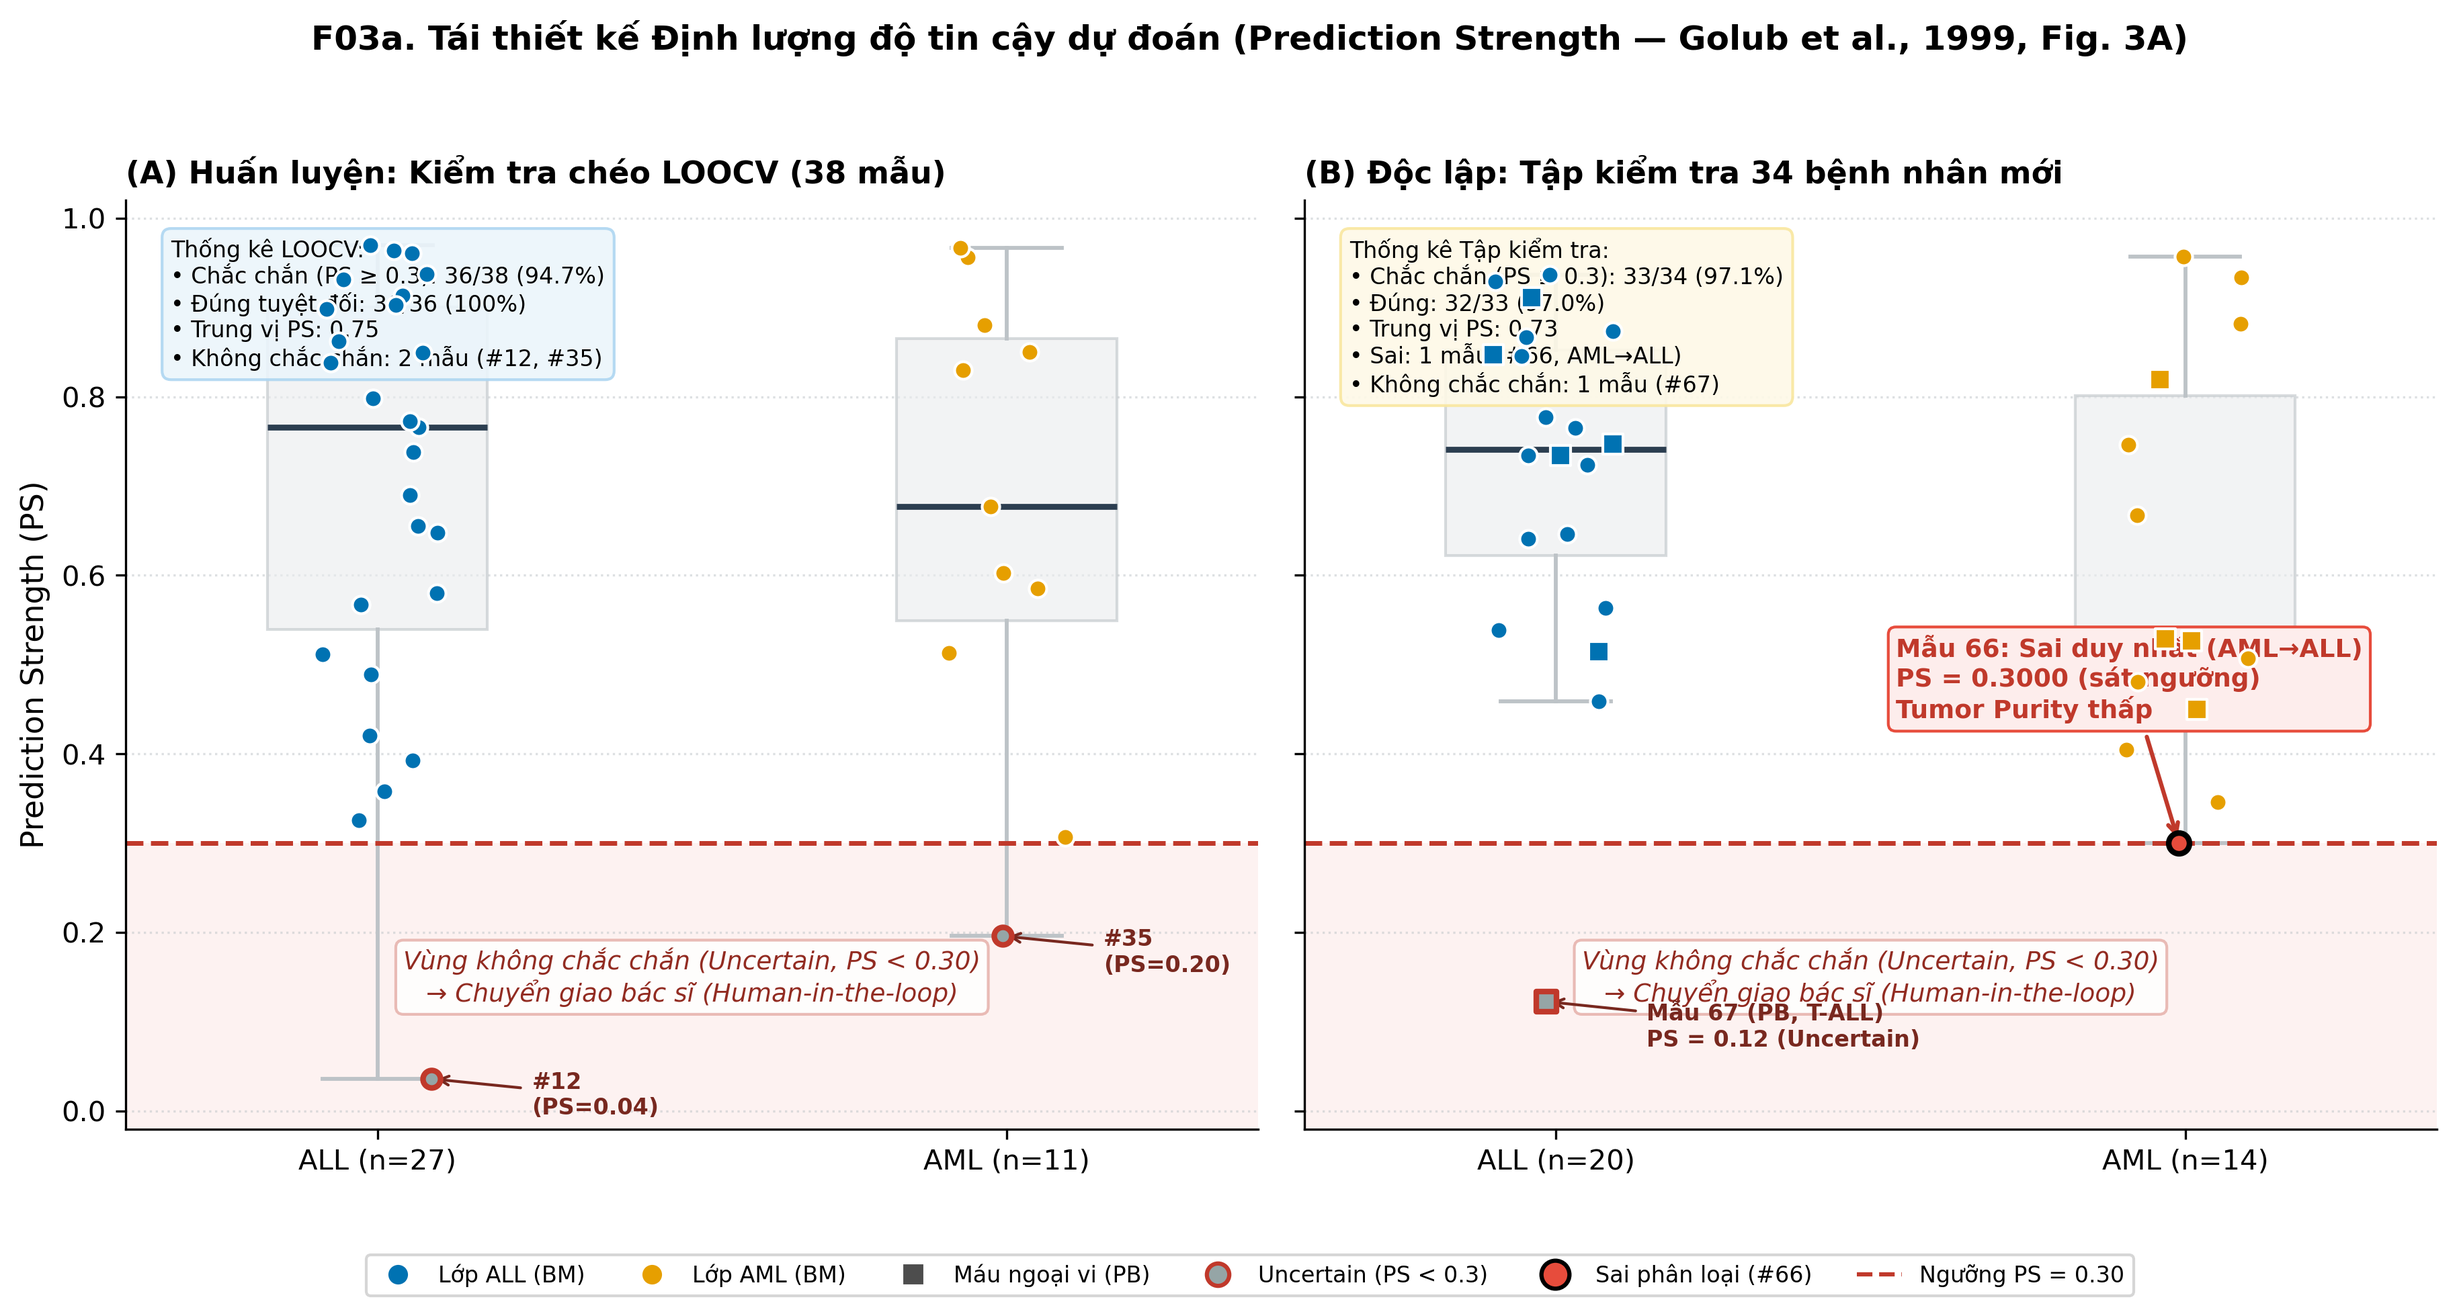
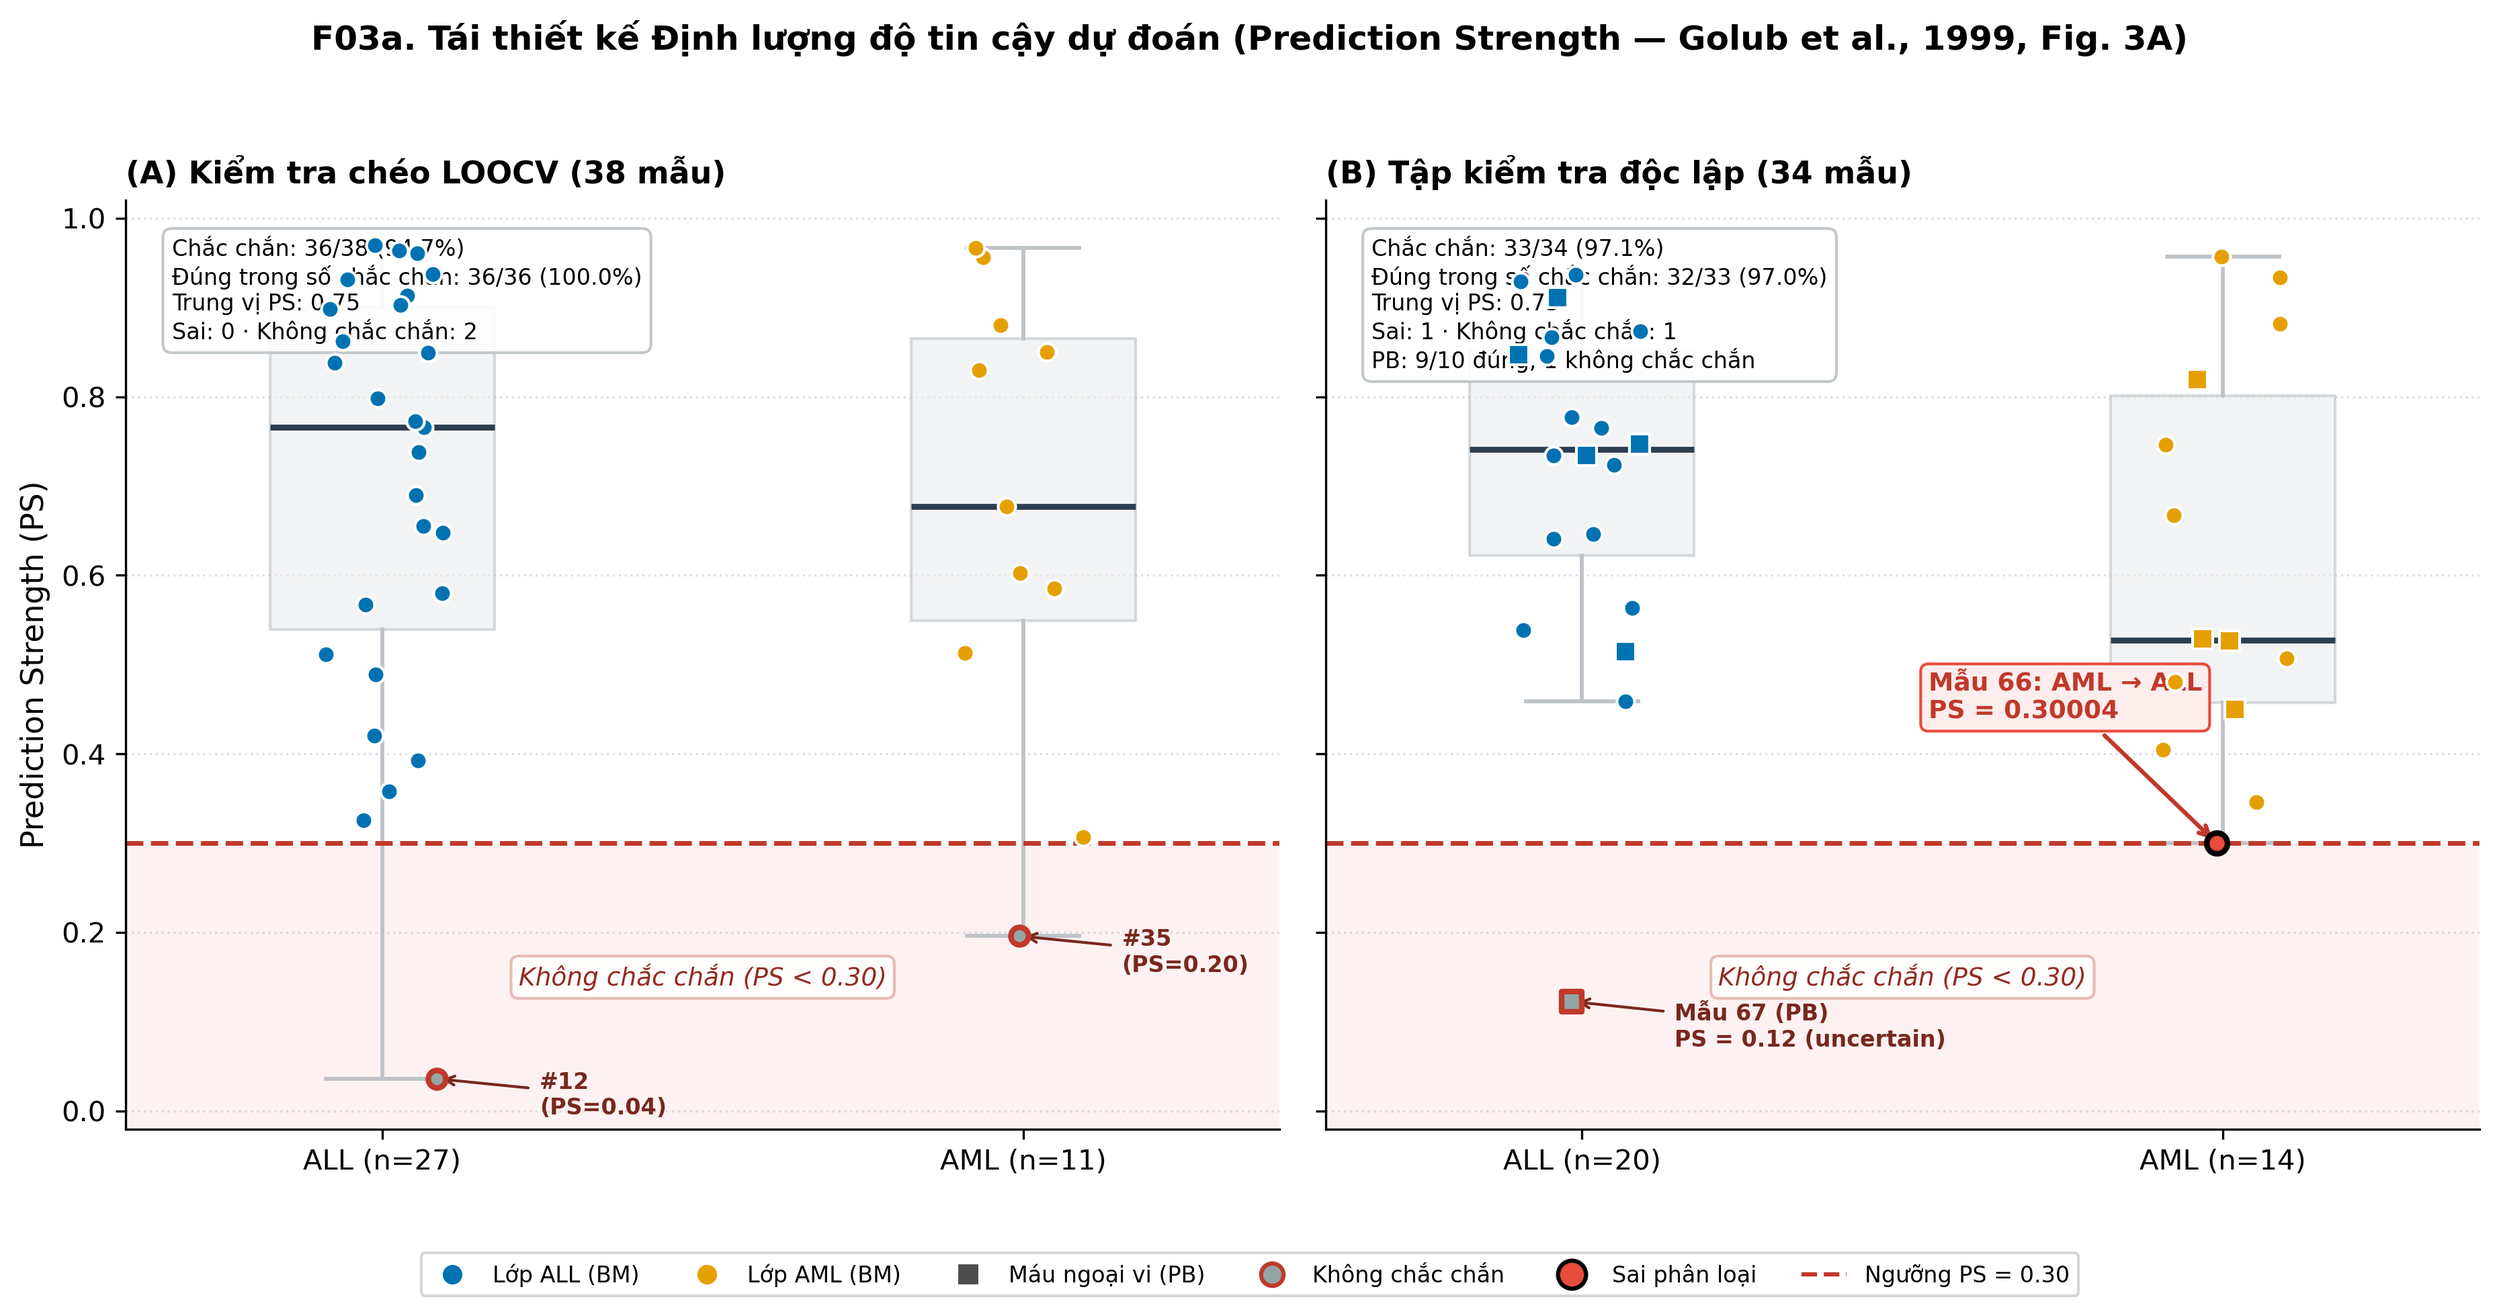
fix(tv5): tính thống kê Fig 3A từ dữ liệu dự đoán

diff --git a/src/viz_redesign.py b/src/viz_redesign.py
@@ -2,7 +2,7 @@
 
 Tái thiết kế các hình kinh điển của bài báo Golub et al. (1999) theo chuẩn trực quan hóa hiện đại:
     - Fig 2: Phân cụm không giám sát bằng Self-Organizing Maps (SOM 1x2 và 2x2), đối chiếu cấu trúc lớp và chiếu không gian biểu hiện gen.
-    - Fig 3A: (Dành riêng cho đợt tích hợp TV1) Phân bố Prediction Strength (PS) của mô hình Weighted Voting.
+    - Fig 3A: Phân bố Prediction Strength (PS) của mô hình Weighted Voting.
     - F04 (hình bổ sung của nhóm): Phân tích lỗi Logistic Regression trên tập kiểm tra độc lập theo loại mô và nguồn thu thập.
 
 Tuân thủ nghiêm ngặt Style Guide (docs/style_guide.md) và ADR-014:
@@ -21,7 +21,6 @@ Chạy trực tiếp:
 """
 from __future__ import annotations
 
-from pathlib import Path
 
 import matplotlib.pyplot as plt
 import numpy as np
@@ -33,8 +32,7 @@ from sklearn.decomposition import PCA
 
 try:
     from src.config import (
-        CLEANSED_DIR, CURATED_DIR, PALETTE, RANDOM_SEED,
-        REPORT_FIG_DIR, SLIDE_FIG_DIR
+        PROJECT_ROOT, PS_THRESHOLD, RANDOM_SEED
     )
     from src.evaluate import evaluate, _baseline_pipeline
     from src.load import load_golub
@@ -45,8 +43,7 @@ try:
     )
 except ModuleNotFoundError:
     from config import (
-        CLEANSED_DIR, CURATED_DIR, PALETTE, RANDOM_SEED,
-        REPORT_FIG_DIR, SLIDE_FIG_DIR
+        PROJECT_ROOT, PS_THRESHOLD, RANDOM_SEED
     )
     from evaluate import evaluate, _baseline_pipeline
     from load import load_golub
@@ -329,35 +326,26 @@ def plot_fig4_error_analysis(
 def plot_fig3a_prediction_strength(ps_df: pd.DataFrame | None = None, mode: str = "report") -> plt.Figure:
     """Tái thiết kế Fig 3A của Golub et al. (1999): Prediction Strength (PS) phân bổ theo lớp và tập mẫu.
 
-    Panel A: Tập huấn luyện (LOOCV - 38 mẫu), làm rõ ngưỡng PS >= 0.30 và 2 mẫu uncertain.
-    Panel B: Tập kiểm tra độc lập (34 mẫu), làm nổi bật mẫu 66 (sai biên), 5 mẫu PB và mẫu uncertain 67.
+    Hai panel trình bày PS trên LOOCV và tập kiểm tra độc lập.
     """
-    if mode not in ("report", "slide"):
-        raise ValueError(f"mode phải là 'report' hoặc 'slide', nhận được: {mode}")
-
-    if ps_df is None:
-        ps_path = Path(__file__).resolve().parent.parent / "results" / "metrics" / "golub_ps.csv"
-        if not ps_path.exists():
-            from src.config import PROJECT_ROOT
-            ps_path = PROJECT_ROOT / "results" / "metrics" / "golub_ps.csv"
-        ps_df = pd.read_csv(ps_path)
-
     rc = style_rc(mode)
+    if ps_df is None:
+        ps_df = pd.read_csv(PROJECT_ROOT / "results" / "metrics" / "golub_ps.csv")
     with plt.rc_context(rc):
         w, h = (12.5, 6.2) if mode == "report" else (14.5, 7.5)
         fig, (ax_loocv, ax_test) = plt.subplots(1, 2, figsize=(w, h), sharey=True)
 
         # Hàm vẽ cho từng panel
         def _render_panel(ax, subset_name: str, title_panel: str):
-            sub = ps_df[ps_df["set"] == subset_name].copy()
+            sub = ps_df.loc[ps_df["set"].eq(subset_name)]
 
             # Vùng bóng Uncertain (PS < 0.30)
-            ax.axhspan(-0.02, 0.30, facecolor="#FADBD8" if mode == "report" else "#F2D7D5", alpha=0.35, zorder=0)
-            ax.axhline(0.30, color="#C0392B", linestyle="--", linewidth=rc["lines.linewidth"] * 1.2,
-                       label="Ngưỡng chắc chắn (PS = 0.30)", zorder=2)
+            ax.axhspan(-0.02, PS_THRESHOLD, facecolor="#FADBD8" if mode == "report" else "#F2D7D5", alpha=0.35, zorder=0)
+            ax.axhline(PS_THRESHOLD, color="#C0392B", linestyle="--", linewidth=rc["lines.linewidth"] * 1.2,
+                       label=f"Ngưỡng PS = {PS_THRESHOLD:.2f}", zorder=2)
 
             # Text cảnh báo vùng không chắc chắn
-            ax.text(0.5, 0.15, "Vùng không chắc chắn (Uncertain, PS < 0.30)\n→ Chuyển giao bác sĩ (Human-in-the-loop)",
+            ax.text(0.5, PS_THRESHOLD / 2, f"Không chắc chắn (PS < {PS_THRESHOLD:.2f})",
                     transform=ax.get_yaxis_transform(), ha="center", va="center",
                     fontsize=rc["font.size"] - 1, color="#922B21", style="italic",
                     bbox=dict(boxstyle="round,pad=0.3", facecolor="white", edgecolor="#E6B0AA", alpha=0.85))
@@ -367,7 +355,7 @@ def plot_fig3a_prediction_strength(ps_df: pd.DataFrame | None = None, mode: str 
             box_data = [sub[sub["true"] == c]["ps"].values for c in classes]
 
             # Boxplot mờ
-            bp = ax.boxplot(box_data, positions=positions, widths=0.35, patch_artist=True,
+            ax.boxplot(box_data, positions=positions, widths=0.35, patch_artist=True,
                             showfliers=False, zorder=1,
                             medianprops=dict(color="#2C3E50", linewidth=rc["lines.linewidth"] * 1.5),
                             boxprops=dict(facecolor="#EAECEE", edgecolor="#BDC3C7", alpha=0.6),
@@ -417,14 +405,14 @@ def plot_fig3a_prediction_strength(ps_df: pd.DataFrame | None = None, mode: str 
                                         fontsize=rc["font.size"] - 2, fontweight="bold", color="#78281F",
                                         arrowprops=dict(arrowstyle="->", color="#78281F", lw=1.0))
                     elif subset_name == "test":
-                        if sample_id == 66:  # Ca sai duy nhất
-                            ax.annotate(f"Mẫu 66: Sai duy nhất (AML→ALL)\nPS = {ps_val:.4f} (sát ngưỡng)\nTumor Purity thấp",
+                        if sample_id == 66 and pred not in (c, "uncertain"):
+                            ax.annotate(f"Mẫu {sample_id}: {c} → {pred}\nPS = {ps_val:.5f}",
                                         xy=(x_pos, ps_val), xytext=(x_pos - 0.45, ps_val + 0.14),
                                         fontsize=rc["font.size"] - 1, fontweight="bold", color="#C0392B",
                                         bbox=dict(boxstyle="round,pad=0.3", facecolor="#FDEDEC", edgecolor="#E74C3C"),
                                         arrowprops=dict(arrowstyle="->", color="#C0392B", lw=1.5))
-                        elif sample_id == 67:  # Uncertain
-                            ax.annotate(f"Mẫu 67 (PB, T-ALL)\nPS = {ps_val:.2f} (Uncertain)",
+                        elif sample_id == 67 and pred == "uncertain":
+                            ax.annotate(f"Mẫu {sample_id} ({tissue})\nPS = {ps_val:.2f} (uncertain)",
                                         xy=(x_pos, ps_val), xytext=(x_pos + 0.16, ps_val - 0.05),
                                         fontsize=rc["font.size"] - 2, fontweight="bold", color="#78281F",
                                         arrowprops=dict(arrowstyle="->", color="#78281F", lw=1.0))
@@ -435,55 +423,42 @@ def plot_fig3a_prediction_strength(ps_df: pd.DataFrame | None = None, mode: str 
                                fontsize=rc["font.size"])
             ax.set_xlim(-0.4, 1.4)
             ax.set_ylim(-0.02, 1.02)
-            ax.set_title(title_panel, loc="left", fontweight="bold", fontsize=rc["font.size"] + 1)
+            ax.set_title(f"{title_panel} ({len(sub)} mẫu)", loc="left", fontweight="bold", fontsize=rc["font.size"] + 1)
             ax.grid(axis="y", linestyle=":", alpha=0.5, color="#BDC3C7")
 
-        # Render 2 panel
-        _render_panel(ax_loocv, "loocv", "(A) Huấn luyện: Kiểm tra chéo LOOCV (38 mẫu)")
-        _render_panel(ax_test, "test", "(B) Độc lập: Tập kiểm tra 34 bệnh nhân mới")
+            confident = sub["pred"].ne("uncertain")
+            correct = confident & sub["pred"].eq(sub["true"])
+            n_conf = confident.sum()
+            n_correct = correct.sum()
+            coverage = f"{n_conf / len(sub):.1%}" if len(sub) else "—"
+            accuracy = f"{n_correct / n_conf:.1%}" if n_conf else "—"
+            summary = [
+                f"Chắc chắn: {n_conf}/{len(sub)} ({coverage})",
+                f"Đúng trong số chắc chắn: {n_correct}/{n_conf} ({accuracy})",
+                f"Trung vị PS: {sub['ps'].median():.2f}" if len(sub) else "Trung vị PS: —",
+                f"Sai: {n_conf - n_correct} · Không chắc chắn: {(~confident).sum()}",
+            ]
+            if subset_name == "test" and "tissue" in sub:
+                pb = sub["tissue"].eq("PB")
+                summary.append(f"PB: {(pb & correct).sum()}/{pb.sum()} đúng, {(pb & ~confident).sum()} không chắc chắn")
+            ax.text(
+                0.04, 0.96, "\n".join(summary), transform=ax.transAxes, va="top",
+                fontsize=rc["font.size"] - 2,
+                bbox=dict(boxstyle="round,pad=0.4", facecolor="white", edgecolor="#BDC3C7", alpha=0.9),
+            )
 
+        _render_panel(ax_loocv, "loocv", "(A) Kiểm tra chéo LOOCV")
+        _render_panel(ax_test, "test", "(B) Tập kiểm tra độc lập")
         ax_loocv.set_ylabel("Prediction Strength (PS)", fontsize=rc["font.size"] + 1)
-
-        # Thống kê hộp tóm tắt
-        loocv_sub = ps_df[ps_df["set"] == "loocv"]
-        loocv_conf = len(loocv_sub[loocv_sub["pred"] != "uncertain"])
-        loocv_corr = len(loocv_sub[loocv_sub["pred"] == loocv_sub["true"]])
-        loocv_med = loocv_sub["ps"].median()
-
-        test_sub = ps_df[ps_df["set"] == "test"]
-        test_conf = len(test_sub[test_sub["pred"] != "uncertain"])
-        test_corr = len(test_sub[test_sub["pred"] == test_sub["true"]])
-        test_med = test_sub["ps"].median()
-
-        ax_loocv.text(0.04, 0.96,
-                      f"Thống kê LOOCV:\n"
-                      f"• Chắc chắn (PS ≥ 0.3): {loocv_conf}/38 (94.7%)\n"
-                      f"• Đúng tuyệt đối: {loocv_corr}/{loocv_conf} (100%)\n"
-                      f"• Trung vị PS: {loocv_med:.2f}\n"
-                      f"• Không chắc chắn: 2 mẫu (#12, #35)",
-                      transform=ax_loocv.transAxes, va="top", ha="left",
-                      fontsize=rc["font.size"] - 2,
-                      bbox=dict(boxstyle="round,pad=0.4", facecolor="#EBF5FB", edgecolor="#AED6F1", alpha=0.9))
-
-        ax_test.text(0.04, 0.96,
-                     f"Thống kê Tập kiểm tra:\n"
-                     f"• Chắc chắn (PS ≥ 0.3): {test_conf}/34 (97.1%)\n"
-                     f"• Đúng: {test_corr}/{test_conf} (97.0%)\n"
-                     f"• Trung vị PS: {test_med:.2f}\n"
-                     f"• Sai: 1 mẫu (#66, AML→ALL)\n"
-                     f"• Không chắc chắn: 1 mẫu (#67)",
-                     transform=ax_test.transAxes, va="top", ha="left",
-                     fontsize=rc["font.size"] - 2,
-                     bbox=dict(boxstyle="round,pad=0.4", facecolor="#FEF9E7", edgecolor="#F9E79F", alpha=0.9))
 
         # Chú giải chung
         legend_handles = [
             Line2D([0], [0], marker="o", color="w", markerfacecolor=CLASS_COLORS["ALL"], markersize=8, label="Lớp ALL (BM)"),
             Line2D([0], [0], marker="o", color="w", markerfacecolor=CLASS_COLORS["AML"], markersize=8, label="Lớp AML (BM)"),
             Line2D([0], [0], marker="s", color="w", markerfacecolor=NEUTRAL, markersize=8, label="Máu ngoại vi (PB)"),
-            Line2D([0], [0], marker="o", color="w", markerfacecolor="#95A5A6", markeredgecolor="#C0392B", markeredgewidth=1.5, markersize=8, label="Uncertain (PS < 0.3)"),
-            Line2D([0], [0], marker="o", color="w", markerfacecolor="#E74C3C", markeredgecolor="black", markeredgewidth=1.5, markersize=10, label="Sai phân loại (#66)"),
-            Line2D([0], [0], color="#C0392B", linestyle="--", linewidth=1.5, label="Ngưỡng PS = 0.30"),
+            Line2D([0], [0], marker="o", color="w", markerfacecolor="#95A5A6", markeredgecolor="#C0392B", markeredgewidth=1.5, markersize=8, label="Không chắc chắn"),
+            Line2D([0], [0], marker="o", color="w", markerfacecolor="#E74C3C", markeredgecolor="black", markeredgewidth=1.5, markersize=10, label="Sai phân loại"),
+            Line2D([0], [0], color="#C0392B", linestyle="--", linewidth=1.5, label=f"Ngưỡng PS = {PS_THRESHOLD:.2f}"),
         ]
         fig.legend(handles=legend_handles, loc="lower center", ncol=6, bbox_to_anchor=(0.5, -0.04),
                    fontsize=rc["font.size"] - 2, frameon=True, facecolor="white")

diff --git a/tests/test_viz_redesign.py b/tests/test_viz_redesign.py
@@ -94,6 +94,10 @@ def test_plot_fig3a_prediction_strength_returns_figure(mock_ps_df):
     for mode in ("report", "slide"):
         fig = plot_fig3a_prediction_strength(mock_ps_df, mode=mode)
         assert isinstance(fig, plt.Figure)
+        test_text = "\n".join(text.get_text() for text in fig.axes[1].texts)
+        assert "Chắc chắn: 3/4 (75.0%)" in test_text
+        assert "Đúng trong số chắc chắn: 2/3 (66.7%)" in test_text
+        assert "PB: 0/1 đúng, 1 không chắc chắn" in test_text
         plt.close(fig)
 
 

diff --git a/docs/decisions.md b/docs/decisions.md
@@ -426,7 +426,7 @@ tái lập được và truy ngược về nguồn.
      - Bảng C: Khám phá phân nhóm sâu trên mạng SOM 2×2 (4 nơ-ron, 72 mẫu), chứng minh T-ALL không tách khỏi B-ALL ở cấp độ không giám sát (ủng hộ H5 ở mức ALL/AML, bác bỏ ở mức subtype).
   2. **Fig 3A (Prediction Strength):**
      - Bảng A (LOOCV 38 mẫu): Trực quan hóa giá trị PS từ `results/metrics/golub_ps.csv` (TV1), vạch ngưỡng $PS = 0.30$, phủ dải cảnh báo "Uncertain" ($PS < 0.30$) thể chế hóa cơ chế *Human-in-the-loop*; 36/38 mẫu chắc chắn và đúng 100%, 2 mẫu rơi vào vùng không chắc chắn (#12, #35).
-     - Bảng B (Tập kiểm tra 34 mẫu): 33/34 mẫu chắc chắn, 32 đúng; làm nổi bật mẫu 66 ($PS = 0.30004$ sát ranh giới do Tumor Purity thấp); toàn bộ 5 mẫu máu ngoại vi (PB) được phân loại đúng; định vị mẫu không chắc chắn (#67).
+     - Bảng B (34 mẫu kiểm tra): 33 mẫu chắc chắn, đúng 32/33. Mẫu 66 được dự đoán thành ALL với PS = 0,30004, sát ngưỡng 0,30. Trong 10 mẫu máu ngoại vi, 9 mẫu được dự đoán đúng và mẫu 67 có nhãn `uncertain`.
   3. **F04 (hình bổ sung, phân tích lỗi Logistic Regression):**
      - Bảng A: Xác suất lớp AML do Logistic Regression ước tính. Mô hình đọc dữ liệu curated log10, fit trên 38 mẫu train và dự đoán 34 mẫu test. Ngưỡng phân loại là 0,5 và dải 0,3–0,7 dùng làm tham chiếu trực quan.
      - Bảng B: Dải kiểm định Quản trị dữ liệu (Governance Tracks) gồm Loại mô (BM vs PB) và Nguồn bệnh viện (DFCI, CALGB, CCG, St-Jude).
